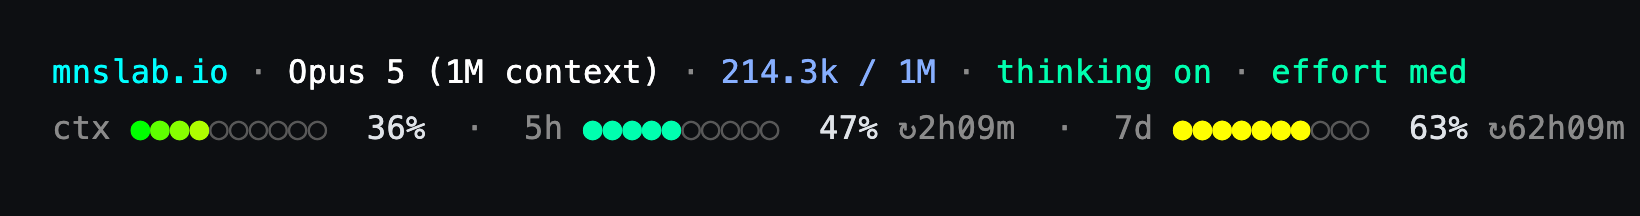
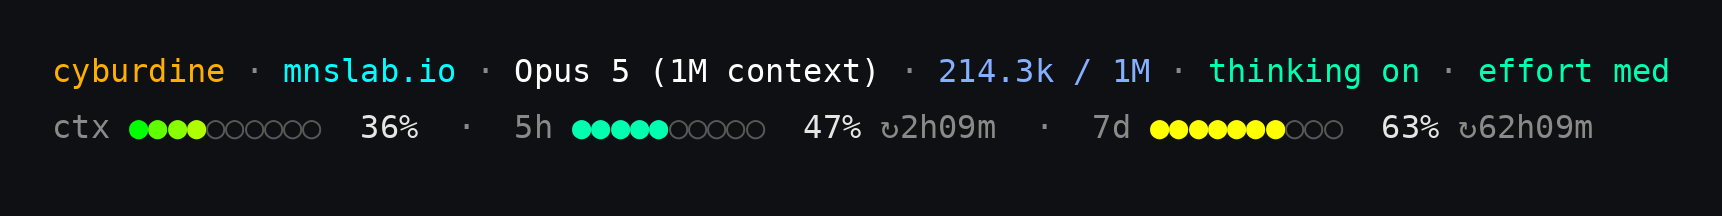
Show logged-in username on status line row 1 (#1)
Adds the OS username (orange) to the left of the folder, syncs the
README and screenshot, and adds docs/statusline-prompt.md as a
rebuild-from-spec record of the status line.

Changed region(s): [[0.0311, 0.5278, 0.9951, 0.6667], [0.0311, 0.25, 0.9951, 0.4167]]

diff --git a/statusline.py b/statusline.py
@@ -1,7 +1,7 @@
 #!/usr/bin/env python3
 """Two-row Claude Code status line. No jq, no bash — pure Python 3 stdlib.
 
-Row 1: folder (cyan) · model (white) · tokens (blue) · thinking (green/grey) · effort (by level)
+Row 1: user (orange) · folder (cyan) · model (white) · tokens (blue) · thinking (green/grey) · effort (by level)
 Row 2: ctx meter (per-dot gradient) · 5h meter (risk color) · 7d meter (risk color)
 """
 
@@ -9,6 +9,7 @@ import sys
 import json
 import time
 import math
+import getpass
 
 
 def c256(code):
@@ -16,6 +17,7 @@ def c256(code):
 
 
 RESET = "\033[0m"
+USER_C = c256(214)   # orange
 CYAN = c256(51)
 GREEN = c256(49)
 YELLOW = c256(226)
@@ -217,7 +219,12 @@ def main():
         # ---- Row 1 ----
         cur_dir = safe_get(data, "workspace", "current_dir", default="") or ""
         folder = cur_dir.rstrip("/").split("/")[-1] if cur_dir else "?"
-        row1_parts = [f"{CYAN}{folder}{RESET}"]
+        try:
+            user = getpass.getuser()
+        except Exception:
+            user = ""
+        row1_parts = [f"{USER_C}{user}{RESET}"] if user else []
+        row1_parts.append(f"{CYAN}{folder}{RESET}")
 
         model_name = safe_get(data, "model", "display_name")
         if model_name:

diff --git a/docs/statusline-prompt.md b/docs/statusline-prompt.md
@@ -1,0 +1,77 @@
+# Claude Code status line — build prompt
+
+This spec describes what `statusline.py` does. Paste it into Claude Code to
+rebuild the status line from scratch. Update it whenever the script changes.
+
+---
+
+Create a two-row Claude Code status line as a Python 3 script at
+`~/.claude/statusline.py` (make it executable). Use only the standard library:
+no jq, no bash, no third-party packages. Register it in `~/.claude/settings.json`:
+
+```json
+"statusLine": {
+  "type": "command",
+  "command": "~/.claude/statusline.py",
+  "padding": 0,
+  "refreshInterval": 60
+}
+```
+
+The script reads Claude Code's status JSON from stdin and prints two lines.
+Use 256-color ANSI codes (`\033[38;5;<n>m`) and reset after every field.
+
+## Row 1 — fields joined by a grey (245) ` · ` separator
+
+1. **Username** (orange, 214): the logged-in OS user from `getpass.getuser()`.
+   If it can't be read, leave the field out.
+2. **Folder** (cyan, 51): the last path part of `workspace.current_dir`, or `?`.
+3. **Model** (bright white, 231): `model.display_name`, shown only if present.
+4. **Tokens** (light blue, 111): `<total_input_tokens> / <context_window_size>`
+   from `context_window`, written compactly (`1.2k`, `3.4M`, trailing `.0` removed).
+   Shown only if `context_window_size` is present.
+5. **Thinking**: `thinking on` in green (49) or `thinking off` in grey (245),
+   from `thinking.enabled`.
+6. **Effort**: `effort <level>` from `effort.level`, with `medium` written as `med`.
+   Colors: max = 196, xhigh = 201, high = 226, med = 49, low and anything else = grey 245.
+
+## Row 2 — meters joined by a grey `  ·  ` separator
+
+Each meter is 10 dots (`●` filled, `○` empty in dim grey 240) followed by a
+percentage right-aligned to 3 characters. Filled dots = ceil(pct/100 × 10),
+with at least 1 dot when pct > 0 and at most 9 dots when pct < 100.
+
+- **ctx**: grey label `ctx`. Scale it to a working budget of **600,000 input
+  tokens = 100%**, not to the model's full context window; cap it at 100%.
+  If `total_input_tokens` is missing or 0, use
+  `context_window.used_percentage / 100 × context_window_size` instead.
+  Color each dot by its position, green to red:
+  `[46, 82, 118, 154, 190, 226, 220, 214, 208, 196]`.
+- **5h** and **7d**: from `rate_limits.five_hour` and `rate_limits.seven_day`,
+  shown only when `used_percentage` is present. Use one color for the whole bar,
+  chosen by **projected overshoot risk** rather than by the raw percentage:
+  - Window lengths: 5h = 18,000 s, 7d = 604,800 s.
+    remaining = clamp(resets_at − now, 0, window);
+    elapsed = window − remaining.
+  - used ≥ 100 → red (196). elapsed < 60 s or used ≤ 0 → green (49).
+  - risk = (used / elapsed × remaining) / (100 − used):
+    under 0.85 → green, under 1.15 → yellow (226), otherwise → red.
+  - If there is no `resets_at`, use raw thresholds instead:
+    under 70 → green, under 90 → yellow, otherwise → red.
+  - After the percentage, add the time until reset in grey:
+    `↻<h>h<mm>m`, or `↻<m>m` when under an hour.
+
+## Robustness
+
+- Treat bad or empty stdin as `{}`. Read nested keys with a safe getter that
+  returns a default instead of raising.
+- If anything fails while building the rows, print this fallback and still exit 0:
+  a cyan `?` on row 1, and a grey `ctx` label with an empty bar and `  0%` on row 2.
+- Always exit with status 0.
+
+Example output:
+
+```
+cyburdine · mnslab.io · Opus 5 (1M context) · 214.3k / 1M · thinking on · effort med
+ctx ●●●●○○○○○○  36%  ·  5h ●●●●●○○○○○  47% ↻2h09m  ·  7d ●●●●●●●○○○  63% ↻62h09m
+```

diff --git a/README.md b/README.md
@@ -5,7 +5,7 @@ whole `~/.claude/` setup to every machine I run Claude Code on.
 
 ![Claude Code status line](docs/statusline.png)
 
-**Row 1** — folder · model · tokens used / context window · thinking on/off · effort level
+**Row 1** — username · folder · model · tokens used / context window · thinking on/off · effort level
 **Row 2** — `ctx` context meter · `5h` and `7d` rate-limit meters, each with its reset countdown
 
 Two things make the meters more useful than a plain percentage:
@@ -85,7 +85,11 @@ All near the top of `statusline.py`:
 | `BAR_WIDTH` | Dots per meter (default 10). |
 | `CTX_GRADIENT` | Per-dot green→red gradient for the `ctx` bar. |
 | `FILLED_CH` / `EMPTY_CH` | Meter glyphs, if your font hates `●`/`○`. |
-| `EFFORT_C`, `MODEL_C`, `TOKENS_C` | Per-field 256-color codes for row 1. |
+| `USER_C`, `EFFORT_C`, `MODEL_C`, `TOKENS_C` | Per-field 256-color codes for row 1. |
+
+Want to rebuild it from a description instead of the code? The full spec is in
+[`docs/statusline-prompt.md`](docs/statusline-prompt.md). You can paste it into
+Claude Code as-is.
 
 > `statusline.sh` is the older single-row bash version, kept around for anyone
 > who'd rather not have Python in the loop. It has no rate-limit meters.
